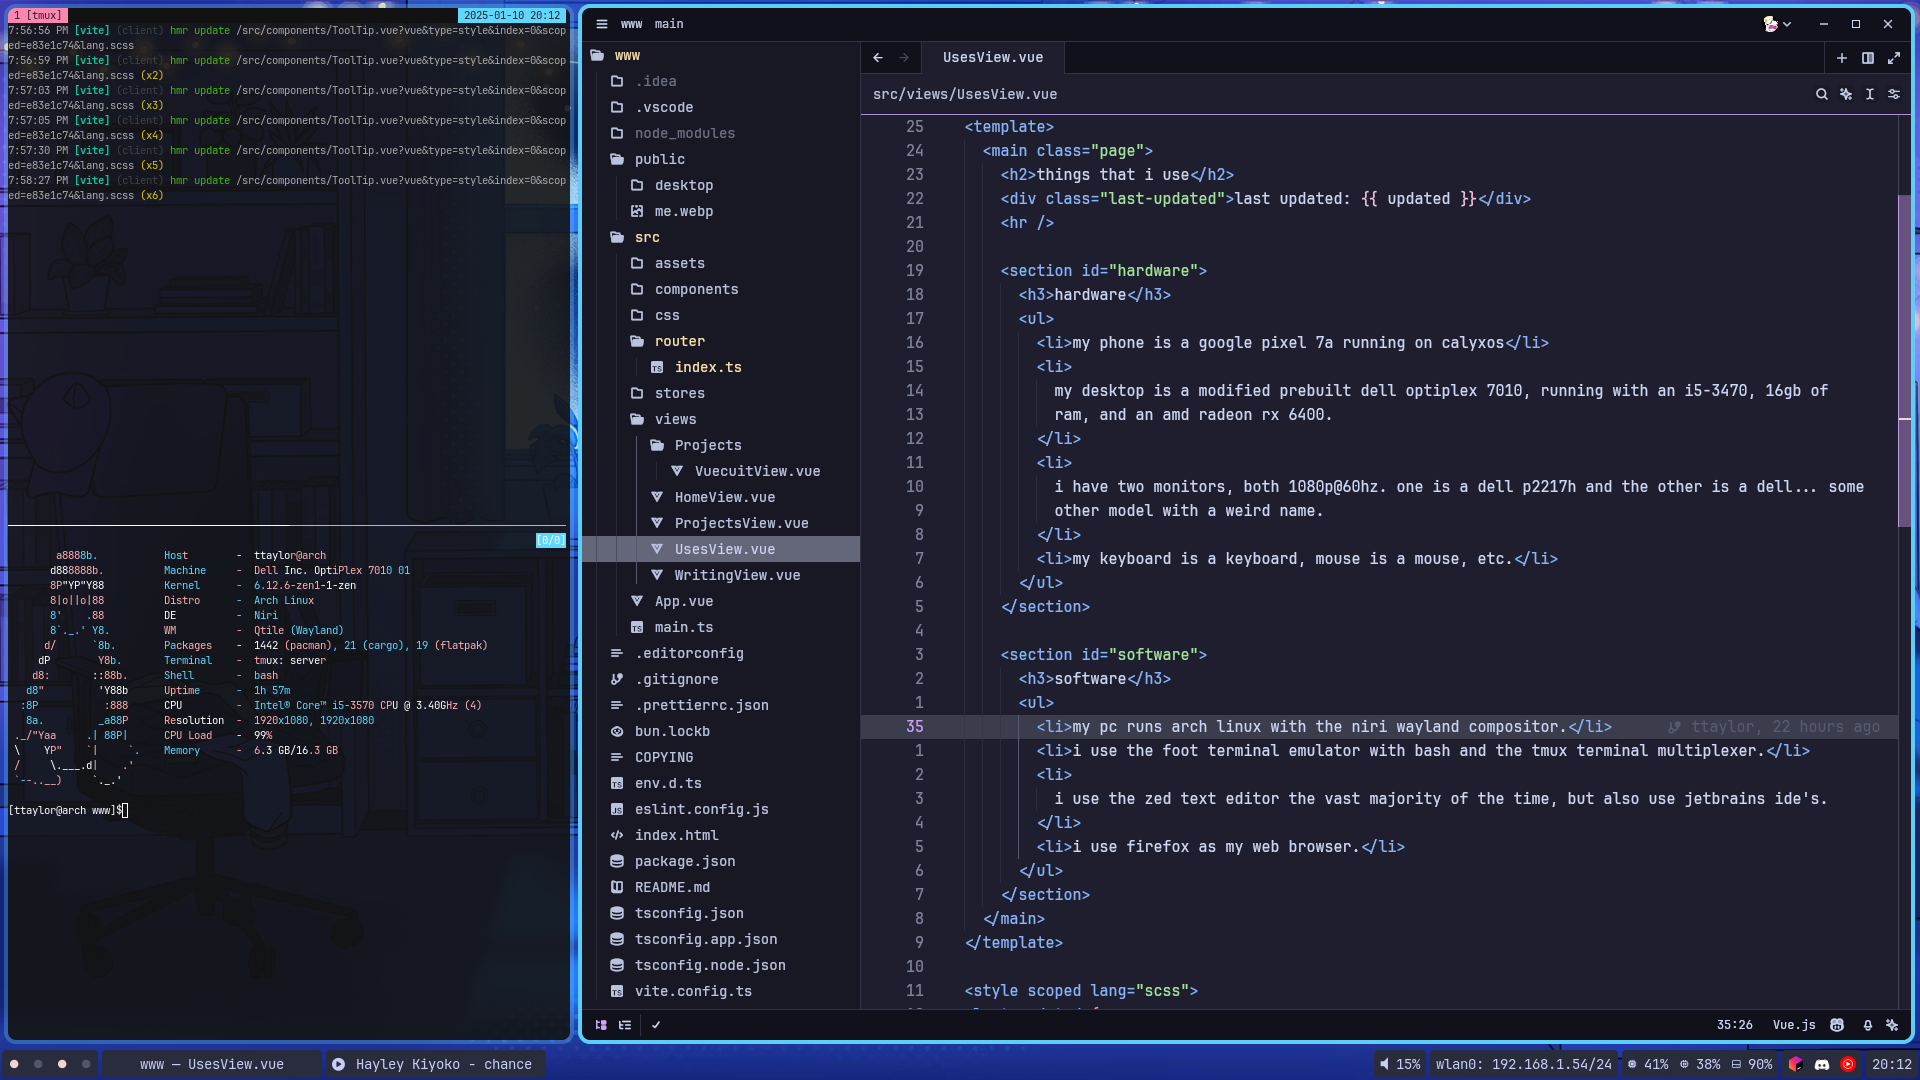
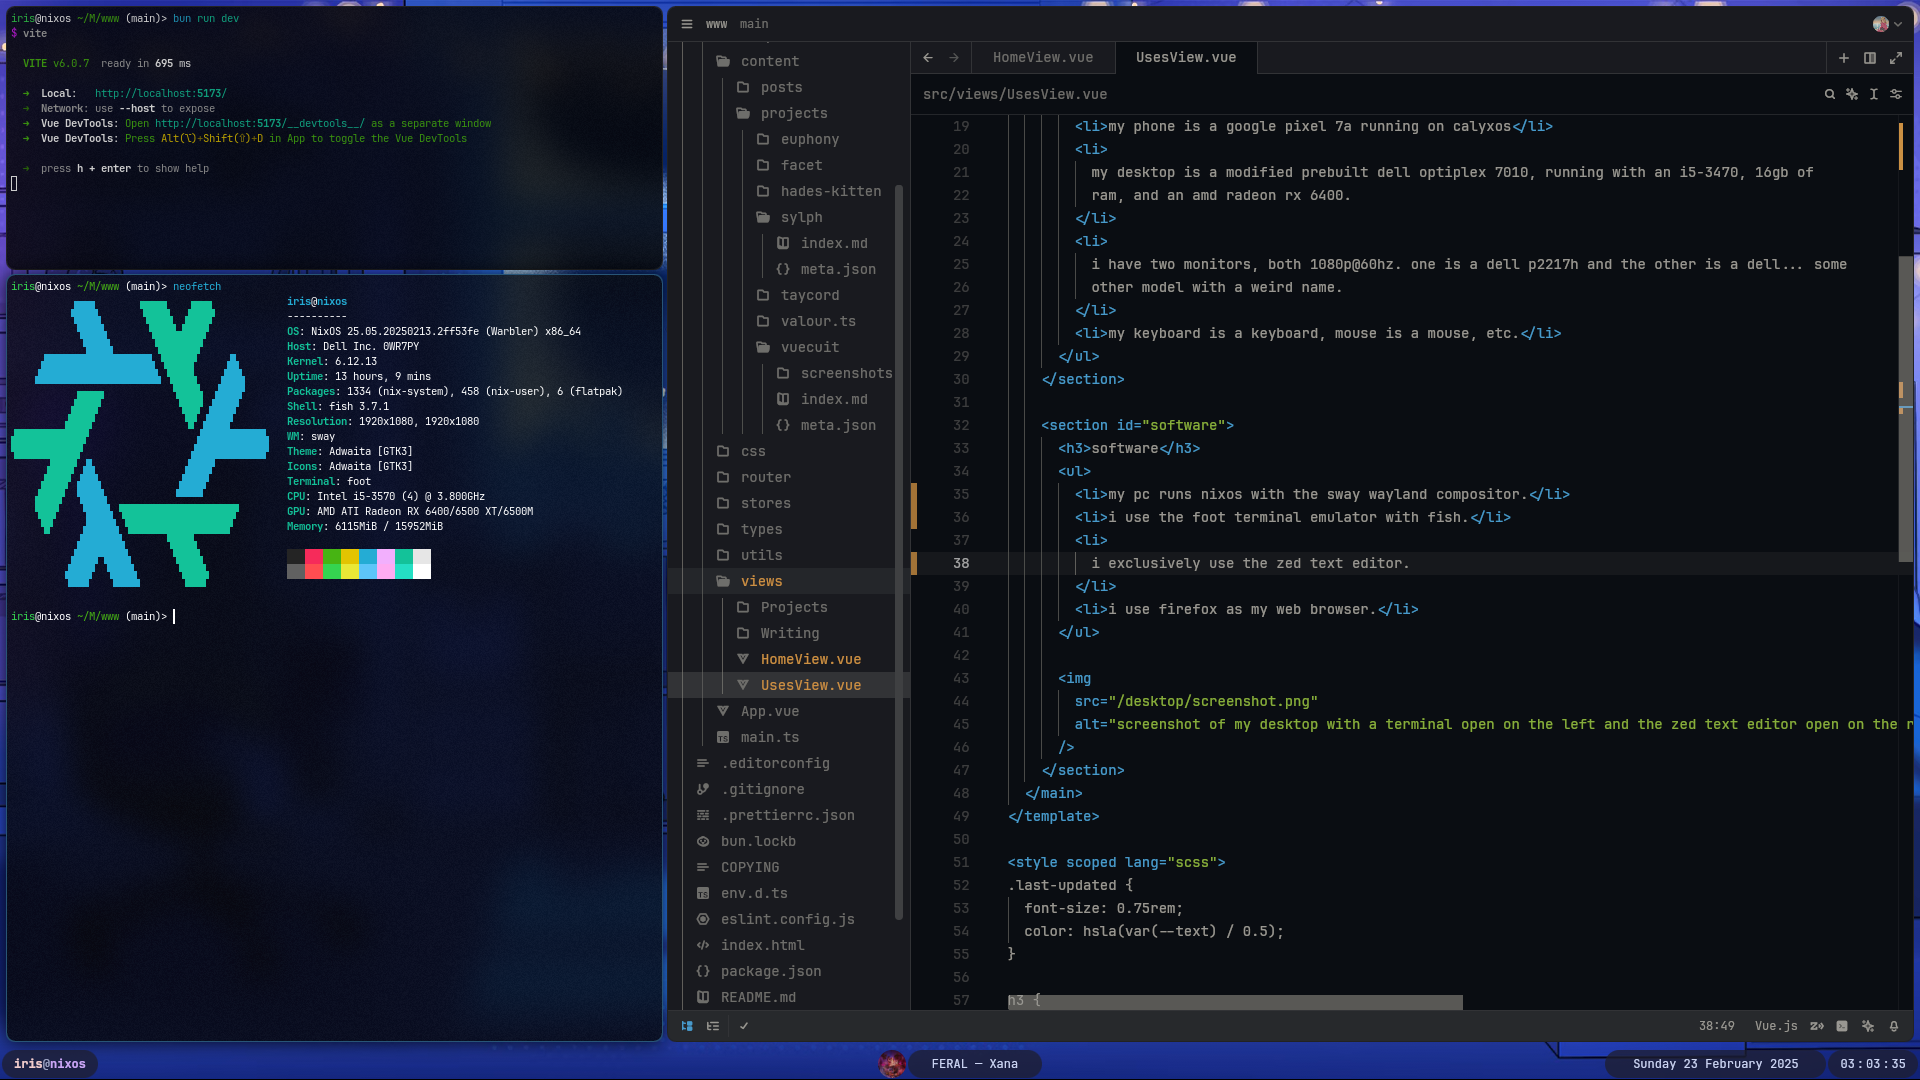
feat(uses): update uses

diff --git a/src/views/UsesView.vue b/src/views/UsesView.vue
@@ -1,10 +1,10 @@
 <script setup lang="ts">
-const updatedMs = 1736540206 * 1000
-const updated = new Date(updatedMs).toLocaleDateString('en-GB', {
-  year: 'numeric',
-  month: 'long',
-  day: 'numeric',
-})
+const updatedMs = 1740280046 * 1000;
+const updated = new Date(updatedMs).toLocaleDateString("en-GB", {
+	year: "numeric",
+	month: "long",
+	day: "numeric",
+});
 </script>
 
 <template>
@@ -32,11 +32,9 @@ const updated = new Date(updatedMs).toLocaleDateString('en-GB', {
     <section id="software">
       <h3>software</h3>
       <ul>
-        <li>my pc runs arch linux with the niri wayland compositor.</li>
-        <li>i use the foot terminal emulator with bash and the tmux terminal multiplexer.</li>
-        <li>
-          i use the zed text editor the vast majority of the time, but also use jetbrains ide's.
-        </li>
+        <li>my pc runs nixos with the sway wayland compositor.</li>
+        <li>i use the foot terminal emulator with fish.</li>
+        <li>i exclusively use the zed text editor.</li>
         <li>i use firefox as my web browser.</li>
       </ul>
 

diff --git a/src/views/HomeView.vue b/src/views/HomeView.vue
@@ -16,6 +16,8 @@
     </p>
 
     <h2>say meow</h2>
-    <p>send cat sounds to my email at <a href="mailto:iris@heyiris.dev">iris@heyiris.dev</a></p>
+    <p>send cat sounds to my email at <a href="mailto:iris@legallyiris.dev">iris@legallyiris.dev</a>
+      or on discord, @legallyiris</p>
+
   </main>
 </template>
